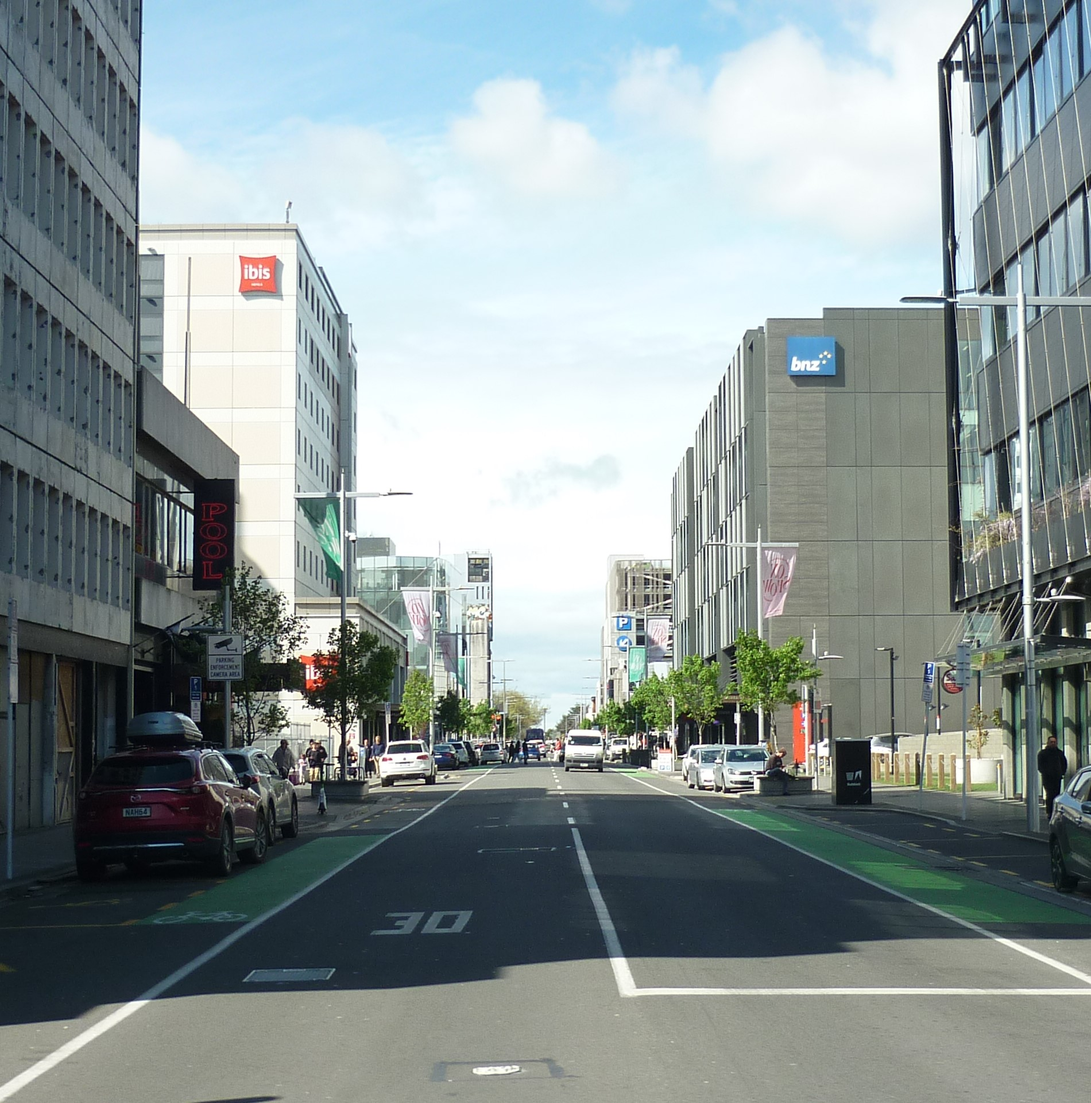
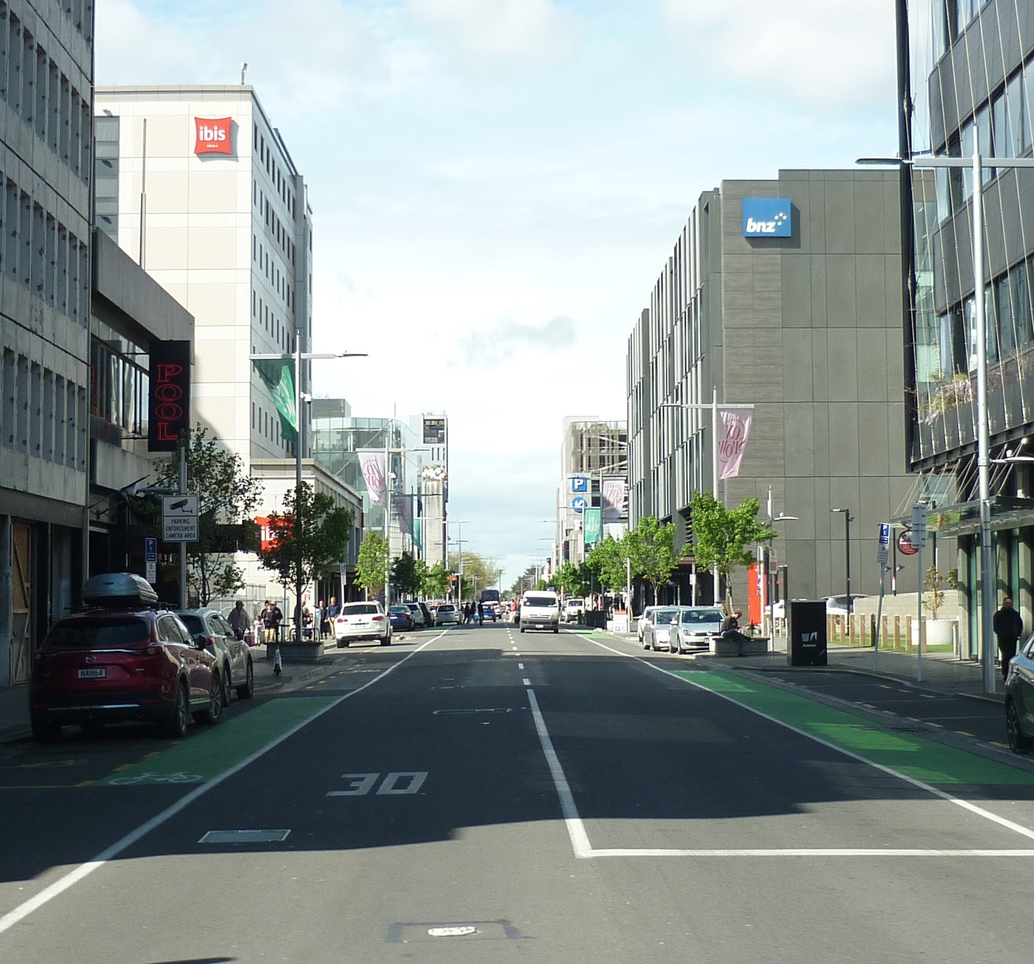
Finished 'about us' page

diff --git a/src/routes/about-us/+page.svelte b/src/routes/about-us/+page.svelte
@@ -5,132 +5,130 @@
 </script>
 
 <Navigation />
-<!-- <div class="header"><Header title="About us" subtitle="Join the nation." /></div> -->
+
 <main>
   <h1>All sorted.</h1>
-  <!-- desired outcome = image instead of solid colour text box, adjust with screen -->
-<!-- curve corners  + layer text on top -->
   <div class="img-container">
-    <img src="chchStreet.JPG" alt="" />
-    <img src="chchStreet.JPG" alt="" />
-    <img src="chchStreet.JPG" alt="" />
-  </div>
-<div class="text-left">
-    <h1>All Sorted</h1>
-    <hr />
-    <p>All your stuff in one place, no more confusing spreadsheets or rushed group texts.</p>
-</div>
-    <div class="column">
-      <div class="container">
-        <div class="imageRow">
-          <img src="chchStreet.JPG" alt="Christchurch Streets" />
-          <div class="overlay-text">Say goodbye to late or forgotten bills</div>
-        </div>
+    <div class="img-wrapper">
+      <img src="chchStreet.JPG" alt="" id="christchurchStreet" />
+      <div class="overlay-text">
+        <p>Say goodbye to late or forgotten bills</p>
       </div>
-<div class="text-right">
-    <h1>Loved by everyone. </h1>
-   
-    <p>Designed for university students in New Zealand, but anyone can use it. </p>
- <hr /></div>
-<!-- use this structure for the larger images  -->
-  <div class="row">
-
-      <div class="column"><img src="placeholder.png" alt="place holder" /></div>
-      <div class="column"><img src="placeholder.png" alt="place holder" /></div>
     </div>
-    <br />
-
-    <div class="imgRight"><img src="placeholder.png" alt="placeholder" /></div>
-
-    <!-- <span class="textBox"><p>Simple and accurate.</p></span>
-  <span class="textBox"><p>Work out your flat now.</p></span>
-  <span class="textBox"><p>Made for students, by students.</p></span> -->
+    <div class="img-wrapper">
+      <img src="skytower.JPG" alt="Auckland-skytower-night" id="skytower" />
+      <div class="overlay-text">
+        <p>Squashing payments</p>
+      </div>
+    </div>
+    <div class="img-wrapper">
+      <img src="concertMtSmart.jpg" alt="HSLOTMtSmart" id="mtSmart" />
+      <div class="overlay-text">
+        <p>More time to do what you love.</p>
+      </div>
+    </div>
   </div>
+
+  <div class="container-right">
+    <div class="text-left">
+      <h1>All Sorted.</h1>
+      <hr />
+      <p>All your stuff in one place, no more confusing spreadsheets or rushed group texts.</p>
+    </div>
+    <img src="centralCity.JPG" alt="Christchurch shops" id="christchurchShop" />
+  </div>
+
+  <div class="container-left">
+    <img src="chchStreet.JPG" alt="" id="placeHolder" />
+    <div class="text-right">
+      <h1>Loved by everyone.</h1>
+      <p>Designed for university students in New Zealand, but anyone can use it.</p>
+      <hr />
+    </div>
+  </div>
+  <!-- use this structure for the larger images  -->
 </main>
 <Footer />
+
 <style>
-.text-left{
-  justify-content: left;
-}
-.text-right{justify-content:right;
-margin-left: 60vw;}
+  .text-left,
+  .text-right {
+    font-size: 2.5vw;
+    font-weight: 300;
+    width: 50%;
+  }
+  .text-left {
+    display: flex;
+    flex-direction: column;
+  }
+  .text-right {
+    display: flex;
+    flex-direction: column;
+  }
   .img-container {
     display: flex;
-    justify-content: space-around;
-
-  }
-
-  .img-container img {
-    height: 200px;
-  }
-
-  .row {
-    display: flex;
     flex-wrap: wrap;
-    padding: 0 4px;
-  }
-
-  .column {
-    flex: 25%;
-    padding: 0 4px;
-  }
-  .container {
+    justify-content: space-around;
     position: relative;
-    padding-bottom: 5vw;
-    color: white;
   }
-
-  .column img {
-    margin-top: 8px;
-    vertical-align: middle;
-    border-radius: 10%;
+  .img-wrapper {
+    position: relative;
+    width: 30%;
+    margin: 1%;
+  }
+  .img-wrapper img {
+    width: 30vw;
+    height: 40vw;
   }
   img {
-    height: 40vw;
-    object-fit: fill;
-    margin: 2vw;
+    border-radius: 5%;
   }
+  .container-right,
+  .container-left {
+    display: flex;
+    align-items: center;
+    justify-content: space-between;
+    margin: 2vw;
+    margin-top: 10vw;
+  }
+
+  .container-right img,
+  .container-left img {
+    width: 40%;
+    height: auto;
+  }
+
   h1 {
     font-weight: 650;
     font-size: 3.5vw;
     color: black;
     font-family: "Inter", sans-serif;
-    margin-left: 3.5vw;
+    margin-left: 2vw;
     padding-top: 5vw;
   }
-  /* .textBox {
-    height: 19vw;
-    width: 19vw;
-    border-radius: 25%;
-    display: inline-flex;
-    margin: 2vw;
-    padding: 2vw;
-    background-color: grey;
-  } */
+
   p {
     color: 66eE6E;
     font-family: "Inter", sans-serif;
-    font-size: 2.5vw;
-    font-weight: 300;
-    position: absalute;
-    margin-left: 3.5vw;
-    margin-right: 65vw;
+    margin-left: 2vw;
   }
   .overlay-text {
     position: absolute;
-    bottom: 8vw;
-    left: 3vw;
-    font-size: 2.6vw;
-    font-weight: bold;
+    top: 80%;
+    bottom: 0.5%;
+    left: 30%;
+    transform: translate(-50%, -50%);
     color: white;
-    font-family: "Inter", sans-serif;
-    padding-right: 8vw;
+    font-size: 2.5vw;
+    border-radius: 10px;
+    font-weight: 700;
+    margin-left: 3vw;
   }
   hr {
     border: none;
     border-top: 1px solid #000;
     width: 40vw;
-    margin-left: 3.5vw;
-    margin-top: 3vw; /* change color */
+    margin-left: 2vw;
+    margin-top: 3vw;
   }
 </style>

diff --git a/src/routes/calculator/+page.svelte b/src/routes/calculator/+page.svelte
@@ -41,6 +41,7 @@
   function removePerson(index) {
     people = [...people.slice(0, index), ...people.slice(index + 1)]
   }
+  //combine save function with add person
   function savePeople() {
     localStorage.flatmates = JSON.stringify(people)
   }
